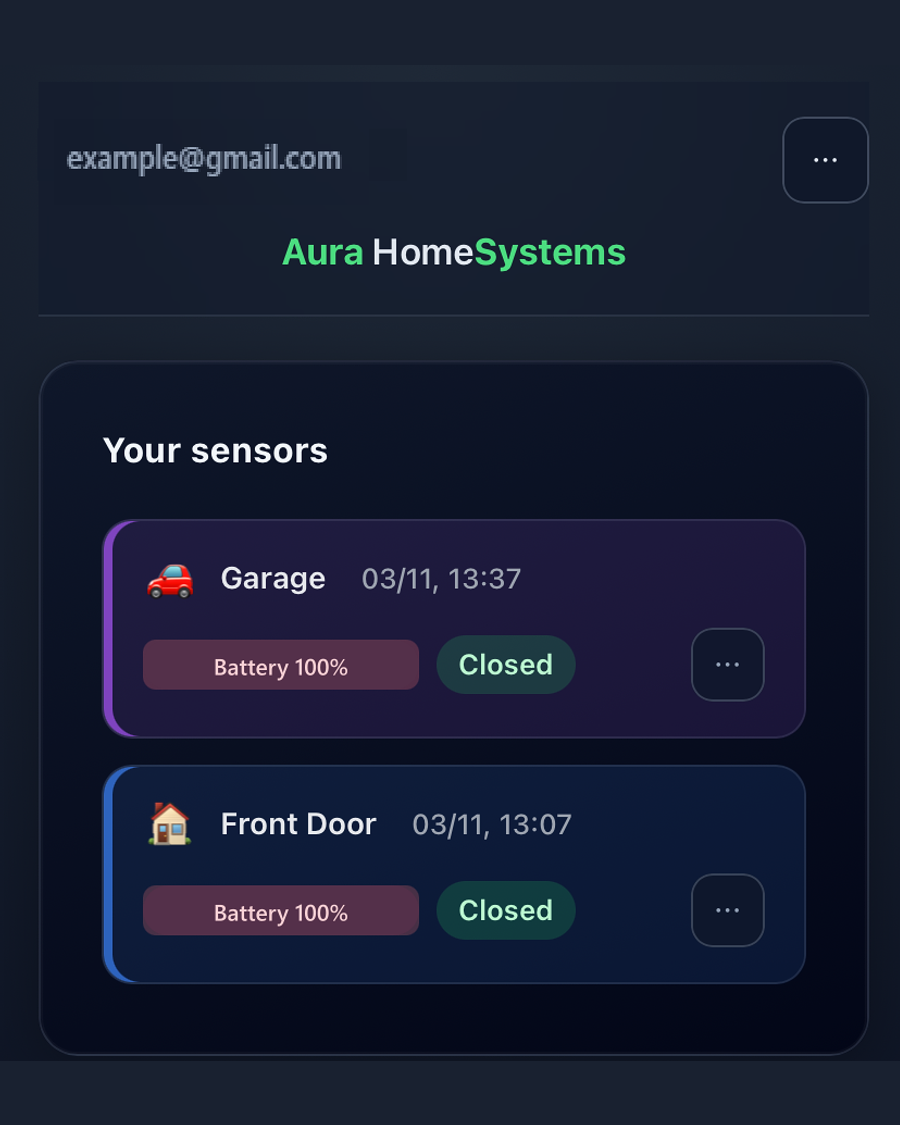
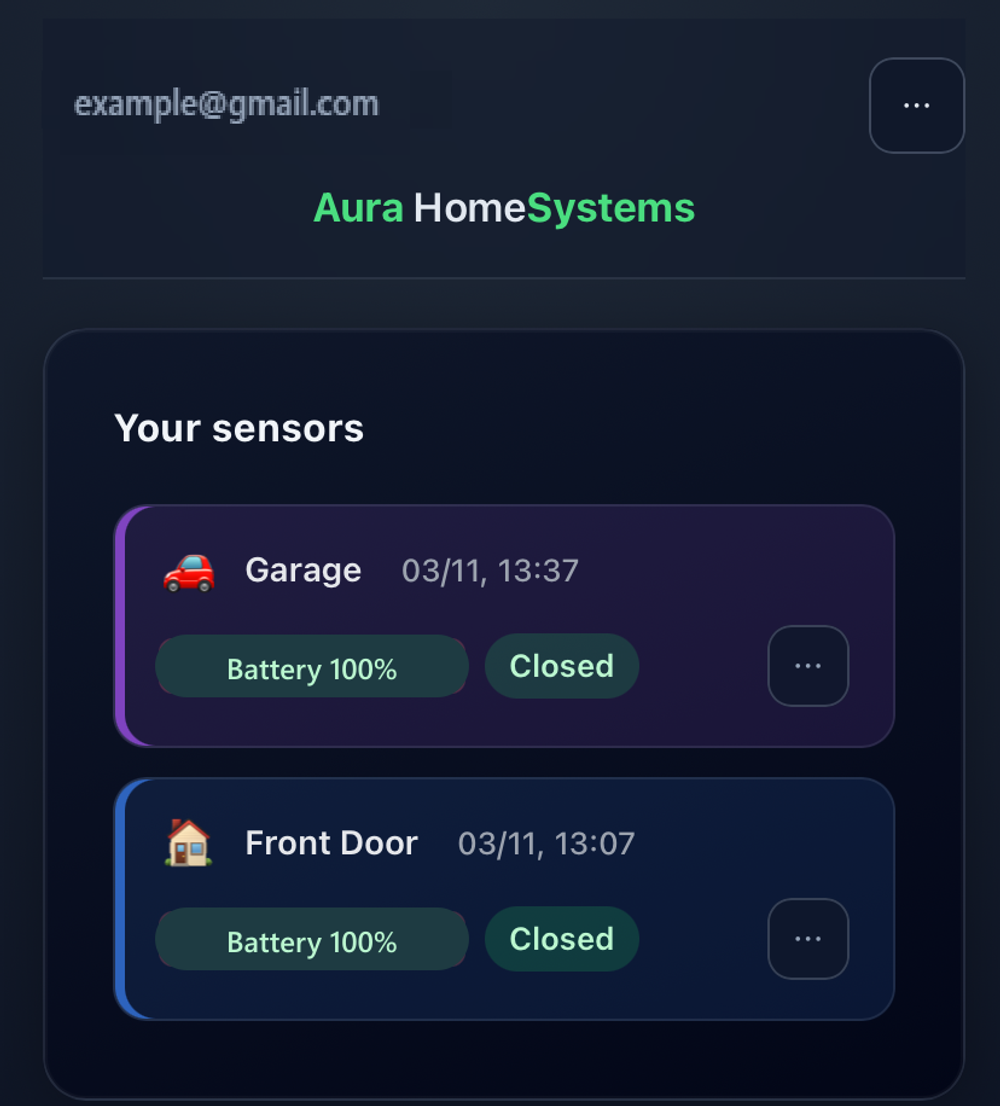
Show the full push screenshot, paint battery green, and crop the history and siren shots to the card.

diff --git a/index.html b/index.html
@@ -407,28 +407,28 @@
               <p class="section-subtitle" data-i18n="product.appPreviewLead">The free phone app is where you live with the sensors. You name each door or window, see if it is open or closed, and get a push the moment something opens.</p>
               <div class="app-preview-grid">
                 <figure class="app-shot">
-                  <img src="images/app/push.png" alt="iPhone notification: Front Door was opened" data-i18n-alt="product.appPushAlt" width="900" height="1125" />
+                  <img src="images/app/push.png" alt="iPhone notification: Front Door was opened" data-i18n-alt="product.appPushAlt" width="946" height="2048" />
                   <figcaption>
                     <strong data-i18n="product.appPushTitle">A push that names the door</strong>
                     <span data-i18n="product.appPushText">When something opens, the phone shows which sensor it was. You do not have to open the app to know.</span>
                   </figcaption>
                 </figure>
                 <figure class="app-shot">
-                  <img src="images/app/sensors.png" alt="Sensor cards showing Front Door and Garage, each closed, with battery and the last update time" data-i18n-alt="product.appSensorsAlt" width="900" height="1125" />
+                  <img src="images/app/sensors.png" alt="Sensor cards showing Front Door and Garage, each closed, with battery and the last update time" data-i18n-alt="product.appSensorsAlt" width="1000" height="1106" />
                   <figcaption>
                     <strong data-i18n="product.appSensorsTitle">Each sensor on its own card</strong>
                     <span data-i18n="product.appSensorsText">Name, icon, battery and Open or Closed. The time is the last report from that sensor.</span>
                   </figcaption>
                 </figure>
                 <figure class="app-shot">
-                  <img src="images/app/history.png" alt="History list of Front Door and Garage openings and closings with the time of each event" data-i18n-alt="product.appHistoryAlt" width="900" height="1125" />
+                  <img src="images/app/history.png" alt="History list of Front Door and Garage openings and closings with the time of each event" data-i18n-alt="product.appHistoryAlt" width="760" height="976" />
                   <figcaption>
                     <strong data-i18n="product.appHistoryTitle">What happened while you were away</strong>
                     <span data-i18n="product.appHistoryText">Every open and close stays in the history, with the sensor name and the time. You can look back at 3, 10 or 20 events.</span>
                   </figcaption>
                 </figure>
                 <figure class="app-shot">
-                  <img src="images/app/mode.png" alt="Away mode switched on, with the siren enabled and ready" data-i18n-alt="product.appModeAlt" width="900" height="1125" />
+                  <img src="images/app/mode.png" alt="Away mode switched on, with the siren enabled and ready" data-i18n-alt="product.appModeAlt" width="1000" height="1086" />
                   <figcaption>
                     <strong data-i18n="product.appModeTitle">Home, Away and the siren</strong>
                     <span data-i18n="product.appModeText">Away turns monitoring and phone alerts on. Home turns them off. If you have a siren, you enable it or stop it from this same screen.</span>

diff --git a/style.css b/style.css
@@ -1878,8 +1878,6 @@ main {
     width: 280px;
     max-width: 100%;
     height: auto;
-    aspect-ratio: 4 / 5;
-    object-fit: cover;
     border-radius: 16px;
     background: #0e1524;
     justify-self: center;
